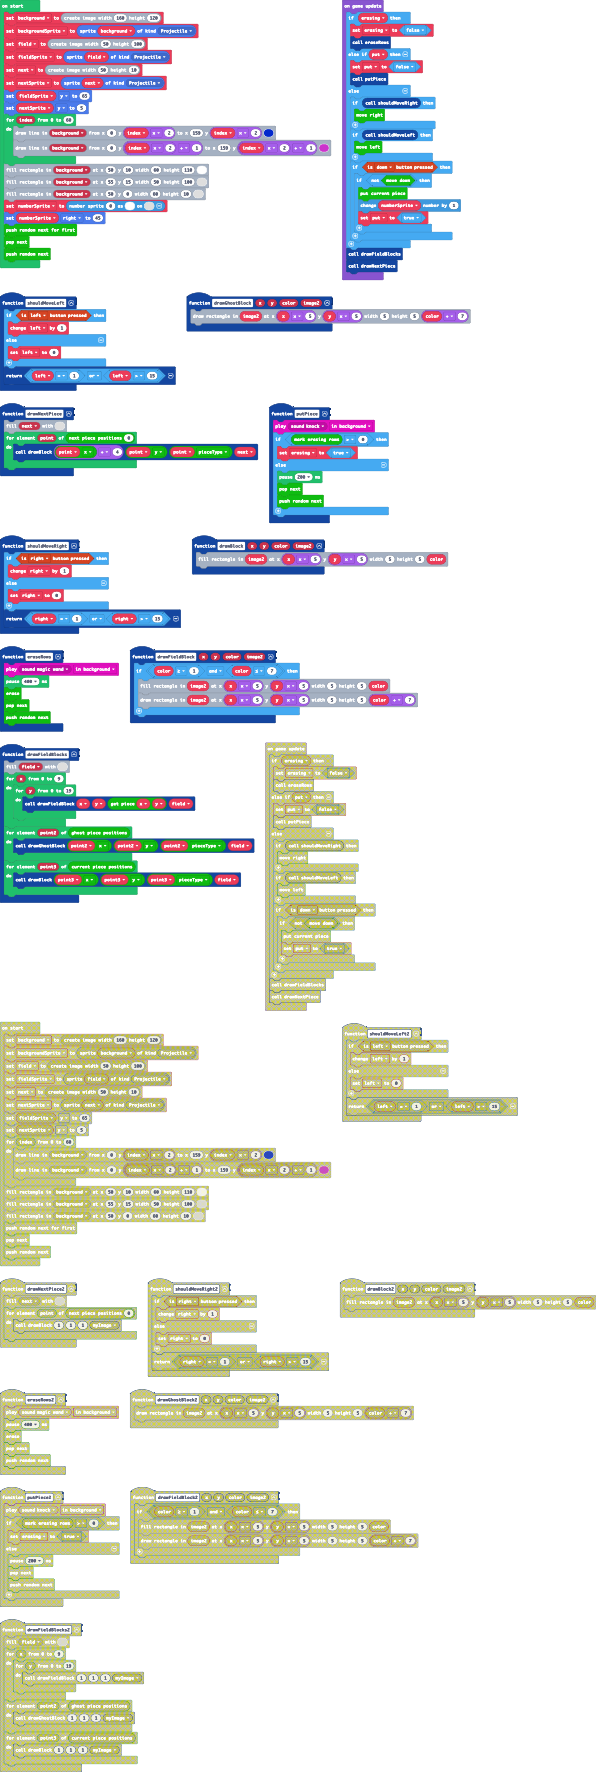
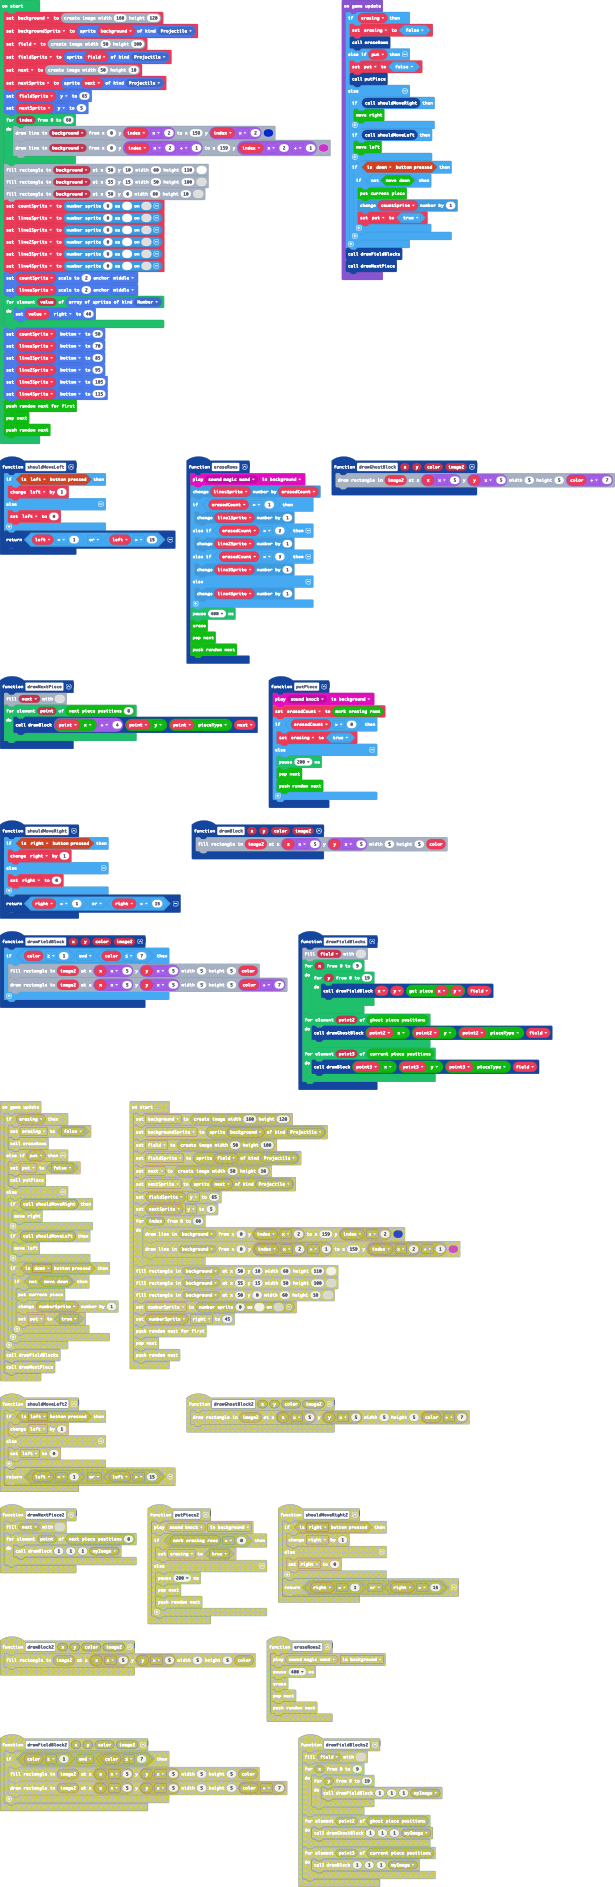
Update main.blocks, main.ts

diff --git a/main.ts b/main.ts
@@ -1,3 +1,6 @@
+namespace SpriteKind {
+    export const Text = SpriteKind.create()
+}
 controller.up.onEvent(ControllerButtonEvent.Pressed, function () {
     TGM.drop()
 })
@@ -37,7 +40,8 @@ function drawFieldBlocks () {
 }
 function putPiece () {
     music.play(music.melodyPlayable(music.knock), music.PlaybackMode.InBackground)
-    if (TGM.markErasingRows() > 0) {
+    erasedCount = TGM.markErasingRows()
+    if (erasedCount > 0) {
         erasing = true
     } else {
         pause(200)
@@ -47,6 +51,16 @@ function putPiece () {
 }
 function eraseRows () {
     music.play(music.melodyPlayable(music.magicWand), music.PlaybackMode.InBackground)
+    linesSprite.changeNumber(erasedCount)
+    if (erasedCount == 1) {
+        line1Sprite.changeNumber(1)
+    } else if (erasedCount == 2) {
+        line2Sprite.changeNumber(1)
+    } else if (erasedCount == 3) {
+        line3Sprite.changeNumber(1)
+    } else {
+        line4Sprite.changeNumber(1)
+    }
     pause(400)
     TGM.erase()
     TGM.popNext()
@@ -75,7 +89,13 @@ function drawGhostBlock (x: number, y: number, color: number, image2: Image) {
 let put = false
 let right = 0
 let erasing = false
+let erasedCount = 0
 let left = 0
+let line4Sprite: NumberSprite = null
+let line3Sprite: NumberSprite = null
+let line2Sprite: NumberSprite = null
+let line1Sprite: NumberSprite = null
+let linesSprite: NumberSprite = null
 let next: Image = null
 let field: Image = null
 let background = image.create(160, 120)
@@ -93,8 +113,23 @@ for (let index = 0; index <= 60; index++) {
 background.fillRect(50, 10, 60, 110, 15)
 background.fillRect(55, 15, 50, 100, 0)
 background.fillRect(50, 0, 60, 10, 0)
-let numberSprite = numbersprite.create(0, 0, 15)
-numberSprite.right = 45
+let countSprite = numbersprite.create(0, 0, 15)
+linesSprite = numbersprite.create(0, 0, 15)
+line1Sprite = numbersprite.create(0, 0, 15)
+line2Sprite = numbersprite.create(0, 0, 15)
+line3Sprite = numbersprite.create(0, 0, 15)
+line4Sprite = numbersprite.create(0, 0, 15)
+countSprite.setScale(2, ScaleAnchor.Middle)
+linesSprite.setScale(2, ScaleAnchor.Middle)
+for (let value of sprites.allOfKind(SpriteKind.Number)) {
+    value.right = 40
+}
+countSprite.bottom = 50
+linesSprite.bottom = 70
+line1Sprite.bottom = 85
+line2Sprite.bottom = 95
+line3Sprite.bottom = 105
+line4Sprite.bottom = 115
 TGM.pushRandomNextForFirst()
 TGM.popNext()
 TGM.pushRandomNext()
@@ -115,7 +150,7 @@ game.onUpdate(function () {
         if (controller.down.isPressed()) {
             if (!(TGM.moveDown())) {
                 TGM.putCurrentPiece()
-                numberSprite.changeNumber(1)
+                countSprite.changeNumber(1)
                 put = true
             }
         }
